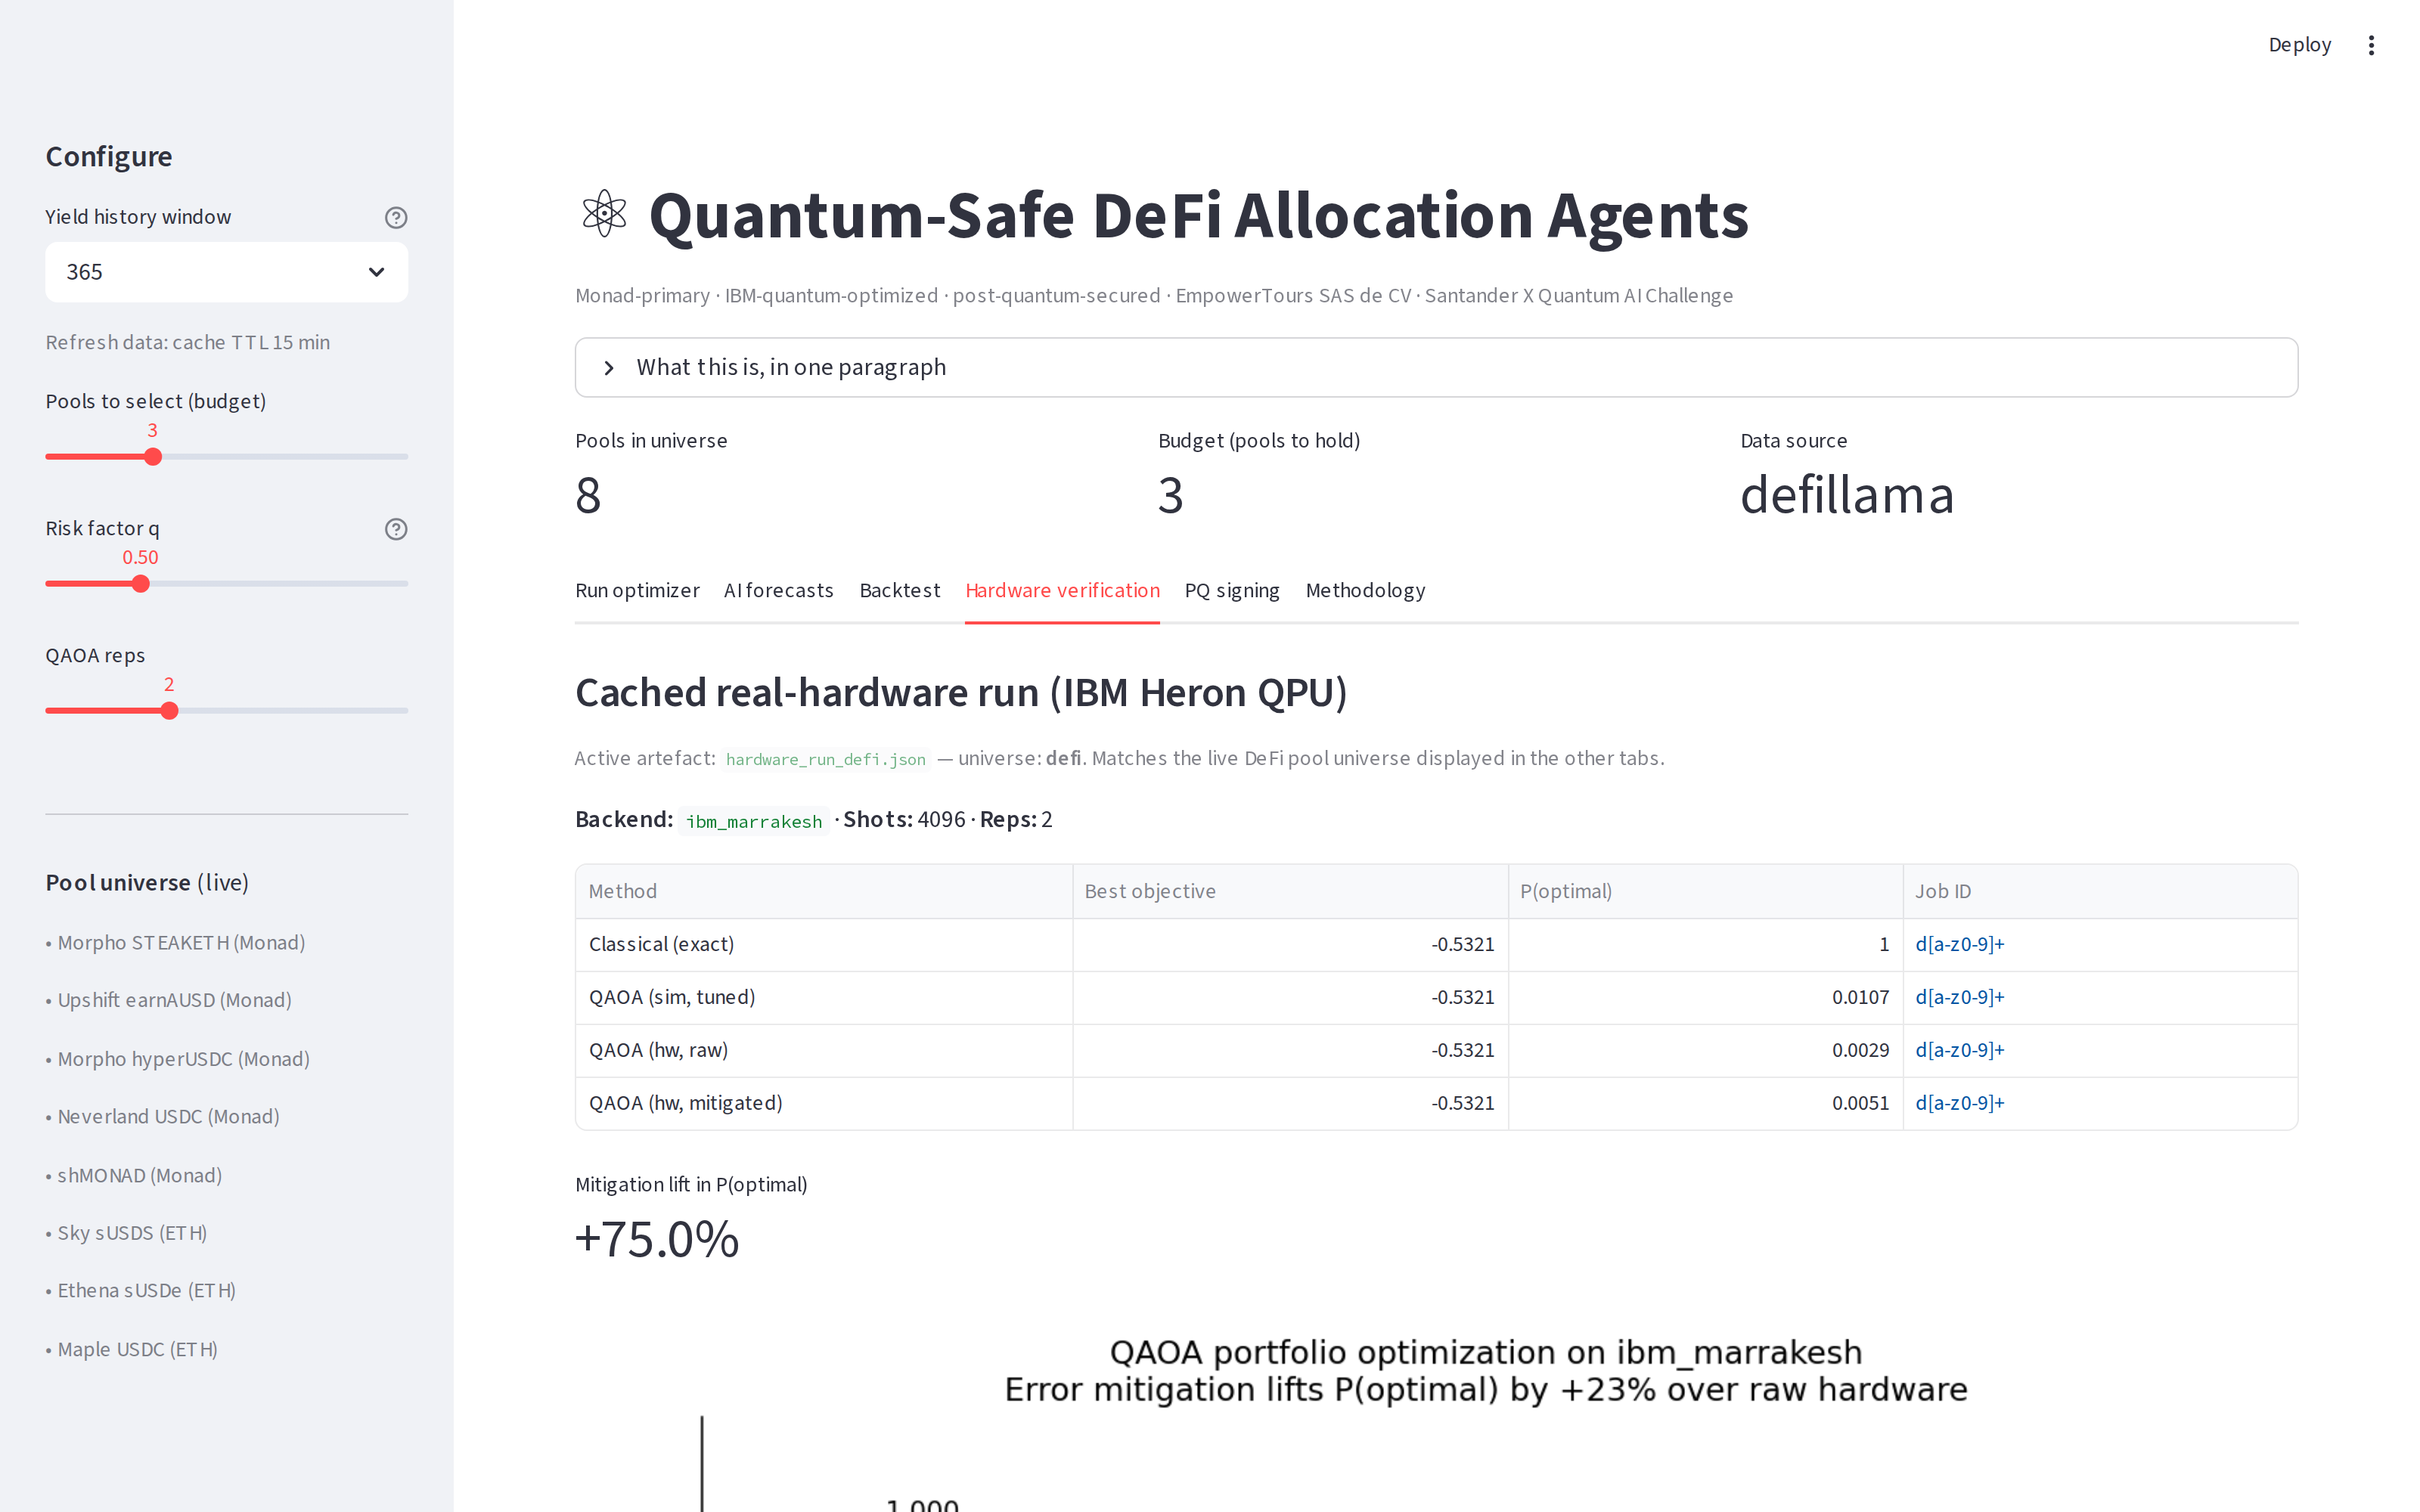
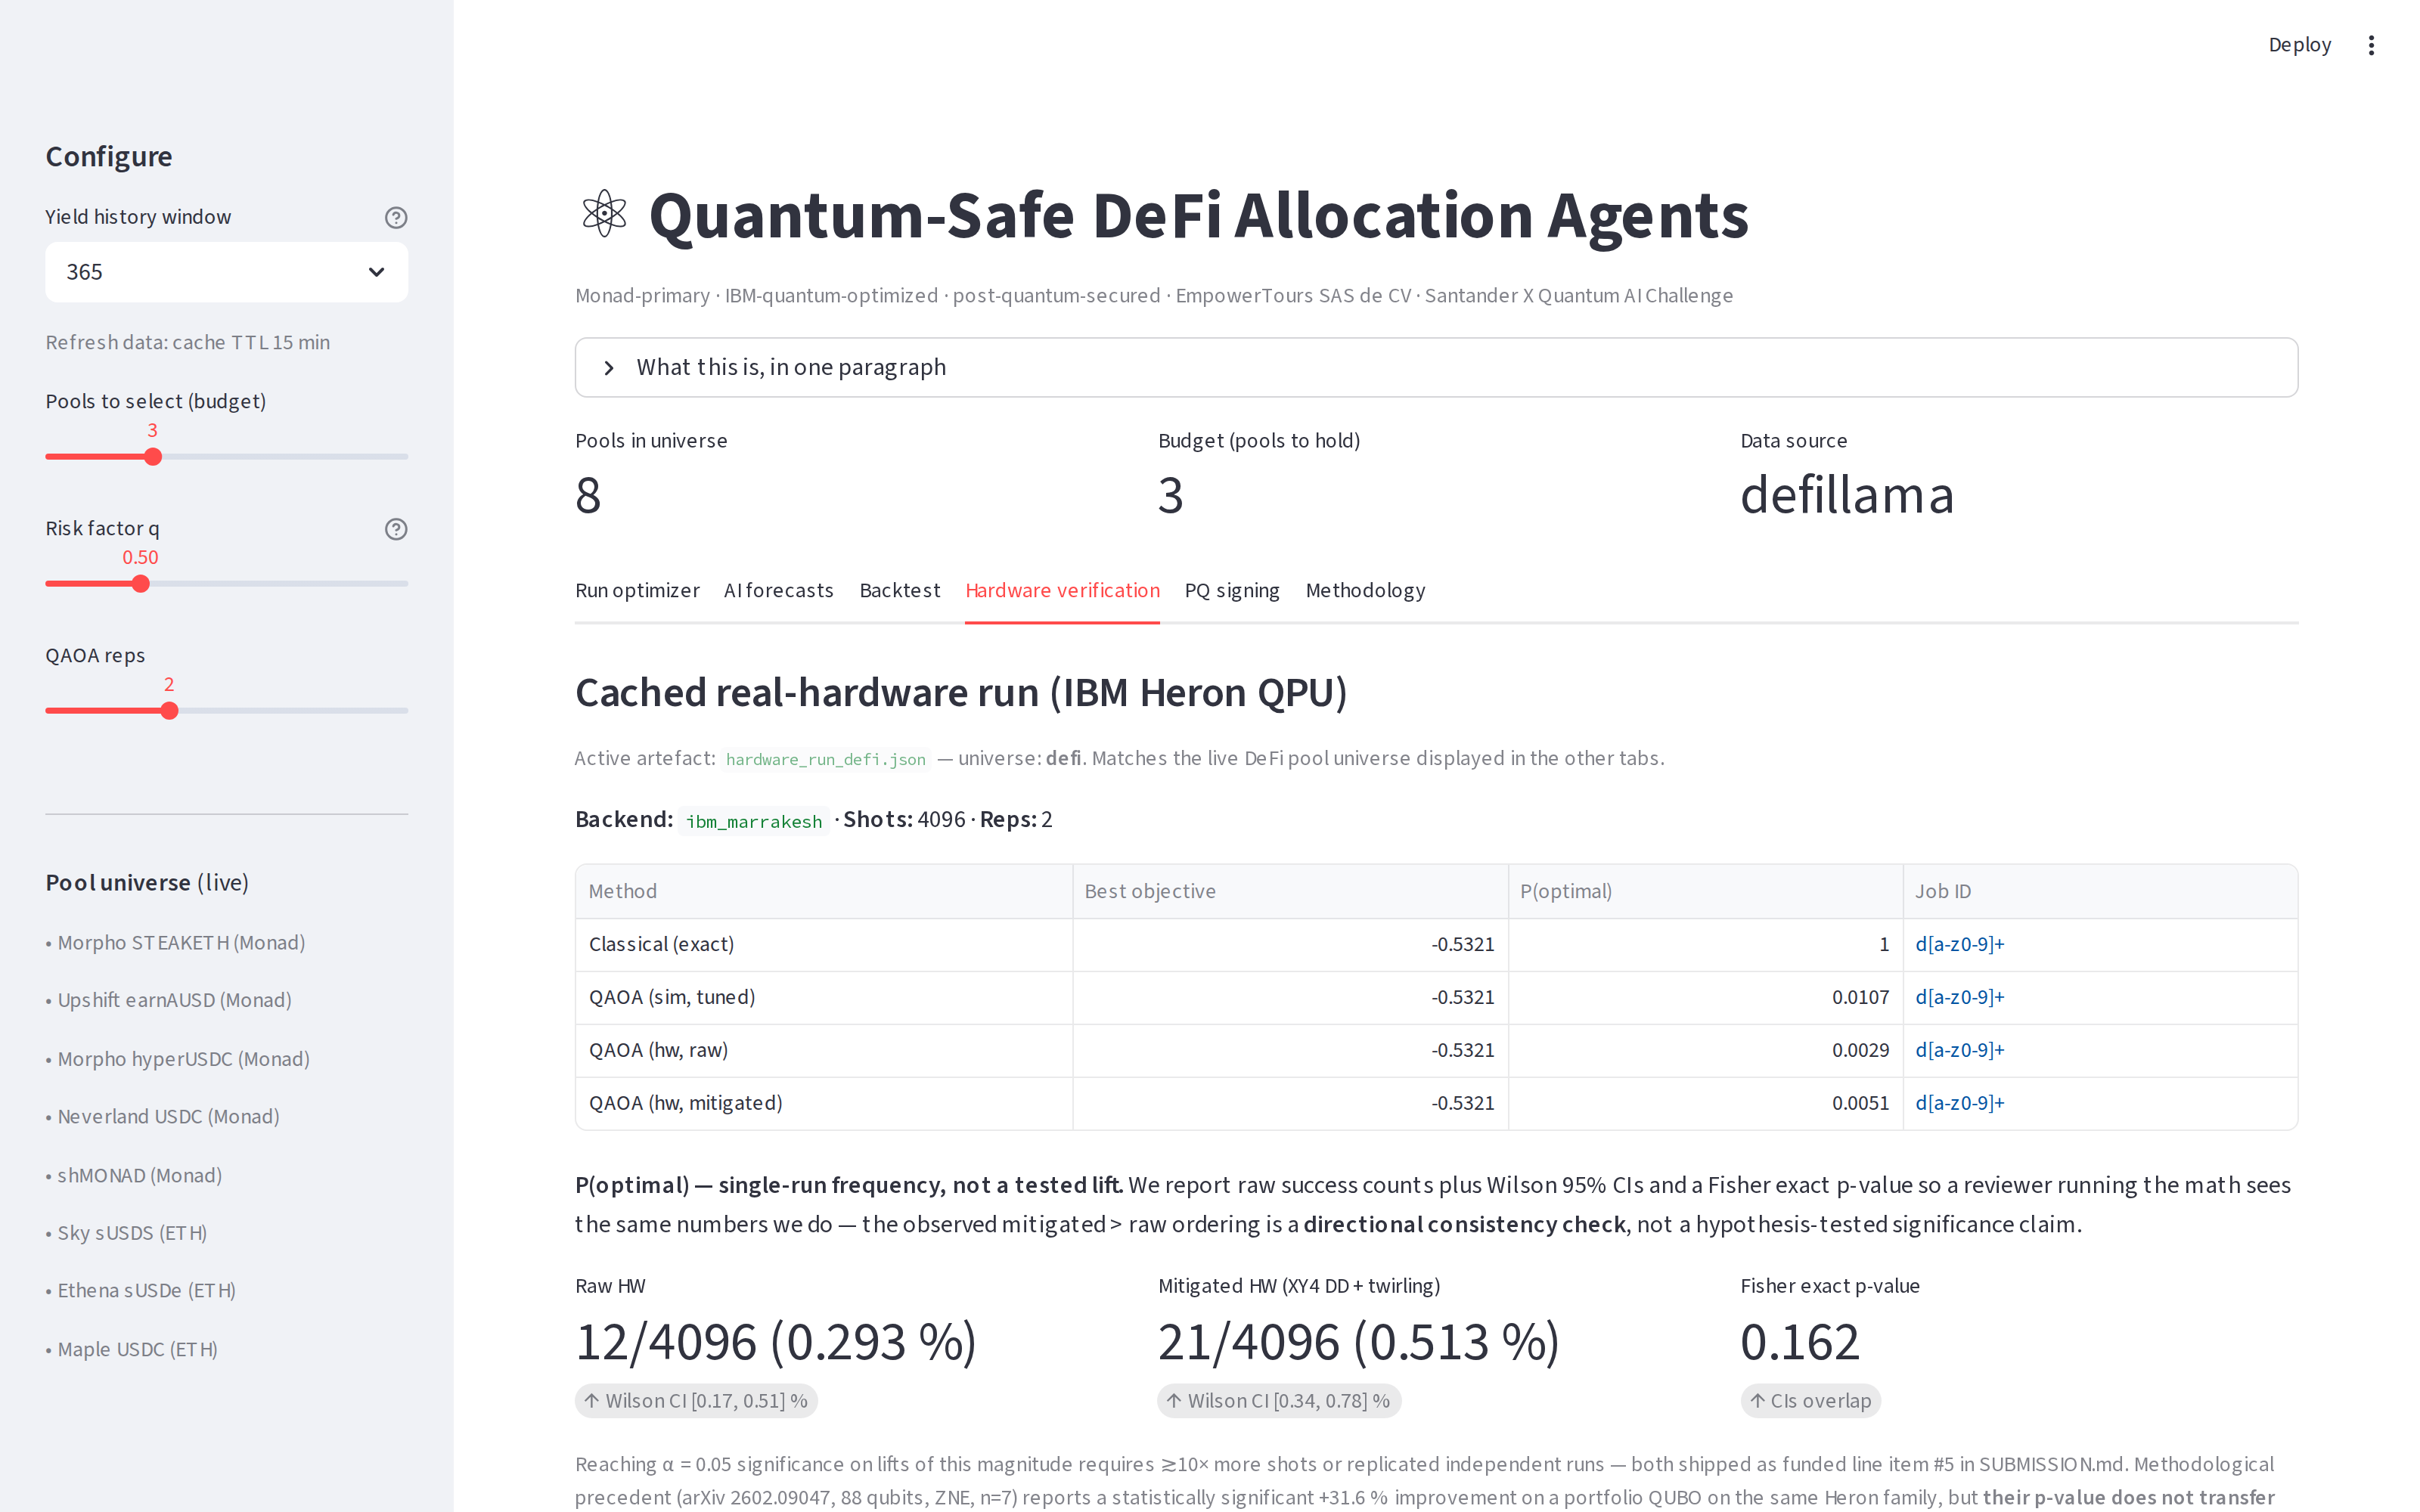
Align hardware tab UI with SUBMISSION.md statistical-honesty framing
Closes the doc/UI discrepancy flagged in commit ddd4ab6: the Streamlit
hardware-verification tab was displaying '+75.0% mitigation lift' as a
headline number while SUBMISSION.md (since commit e2893ab) had been
updated to the honest framing - raw counts, Wilson CIs that overlap,
Fisher exact p-values, and an explicit 'directional consistency check,
not a tested lift' disclaimer.

The UI now renders the same statistical content SUBMISSION.md does so a
panel reviewer who clicks through the app and reads the doc gets the
same numbers from both sources, not contradictory framings.

UI CHANGES (app.py hardware tab, lines 283-353)

  Replaced the single 'Mitigation lift in P(optimal): +75.0%' metric
  with a three-column stat block:

    col 1 - Raw HW
      X/N (p_raw %)
      delta: Wilson 95% CI [lo, hi] %

    col 2 - Mitigated HW (XY4 DD + twirling)
      Y/N (p_mit %)
      delta: Wilson 95% CI [lo, hi] %

    col 3 - Fisher exact p-value
      p
      delta: 'CIs overlap' or 'CIs disjoint'

  Counts computed live from data['shots'] x p_optimal so the display
  rederives bit-for-bit from the cached hardware_run_*.json artefact.

  Wilson CI math is inlined (no extra dep); Fisher exact via
  scipy.stats.fisher_exact (scipy already pinned in requirements.txt).

  Header text emphasises 'single-run frequency, not a tested lift'.
  Footer caption notes that reaching alpha = 0.05 needs >=10x more
  shots or replicated runs (funded line item #5) and explicitly says
[…]

diff --git a/app.py b/app.py
@@ -282,11 +282,70 @@ with tab_hw:
 
         hw_results = [r for r in data["results"] if r.get("job_id")]
         if len(hw_results) >= 2:
+            import math
+            from scipy.stats import fisher_exact
+
             raw = next(r for r in hw_results if "raw" in r["method"].lower())
             mit = next(r for r in hw_results if "mitig" in r["method"].lower())
-            lift = (mit["p_optimal"] - raw["p_optimal"]) / max(
-                raw["p_optimal"], 1e-9) * 100
-            st.metric("Mitigation lift in P(optimal)", f"{lift:+.1f}%")
+            shots = int(data["shots"])
+            raw_x = round(raw["p_optimal"] * shots)
+            mit_x = round(mit["p_optimal"] * shots)
+
+            def _wilson(x: int, n: int, z: float = 1.96) -> tuple[float, float]:
+                if n == 0:
+                    return (0.0, 0.0)
+                p = x / n
+                denom = 1.0 + z * z / n
+                center = (p + z * z / (2.0 * n)) / denom
+                half = z * math.sqrt((p * (1 - p) + z * z / (4.0 * n)) / n) / denom
+                return (max(0.0, center - half), min(1.0, center + half))
+
+            raw_lo, raw_hi = _wilson(raw_x, shots)
+            mit_lo, mit_hi = _wilson(mit_x, shots)
+            _, pvalue = fisher_exact([
+                [raw_x, shots - raw_x],
+                [mit_x, shots - mit_x],
+            ])
+
+            st.markdown(
+                "**P(optimal) — single-run frequency, not a tested lift.** "
+                "We report raw success counts plus Wilson 95% CIs and a "
+                "Fisher exact p-value so a reviewer running the math sees "
+                "the same numbers we do — the observed mitigated > raw "
+                "ordering is a **directional consistency check**, not a "
+                "hypothesis-tested significance claim."
+            )
+            col_raw, col_mit, col_p = st.columns(3)
+            col_raw.metric(
+                "Raw HW",
+                f"{raw_x}/{shots} ({raw['p_optimal']*100:.3f} %)",
+                f"Wilson CI [{raw_lo*100:.2f}, {raw_hi*100:.2f}] %",
+                delta_color="off",
+            )
+            col_mit.metric(
+                "Mitigated HW (XY4 DD + twirling)",
+                f"{mit_x}/{shots} ({mit['p_optimal']*100:.3f} %)",
+                f"Wilson CI [{mit_lo*100:.2f}, {mit_hi*100:.2f}] %",
+                delta_color="off",
+            )
+            ci_overlap = raw_hi > mit_lo
+            col_p.metric(
+                "Fisher exact p-value",
+                f"{pvalue:.3f}",
+                "CIs overlap" if ci_overlap else "CIs disjoint",
+                delta_color="off",
+            )
+            st.caption(
+                "Reaching α = 0.05 significance on lifts of this magnitude "
+                "requires ≳10× more shots or replicated independent runs — "
+                "both shipped as funded line item #5 in SUBMISSION.md. "
+                "Methodological precedent (arXiv 2602.09047, 88 qubits, "
+                "ZNE, n=7) reports a statistically significant +31.6 % "
+                "improvement on a portfolio QUBO on the same Heron family, "
+                "but **their p-value does not transfer to our single-run "
+                "data** — we cite the paper as direction-of-effect "
+                "evidence only."
+            )
 
         chart = Path("outputs/p_optimal.png")
         if chart.exists():